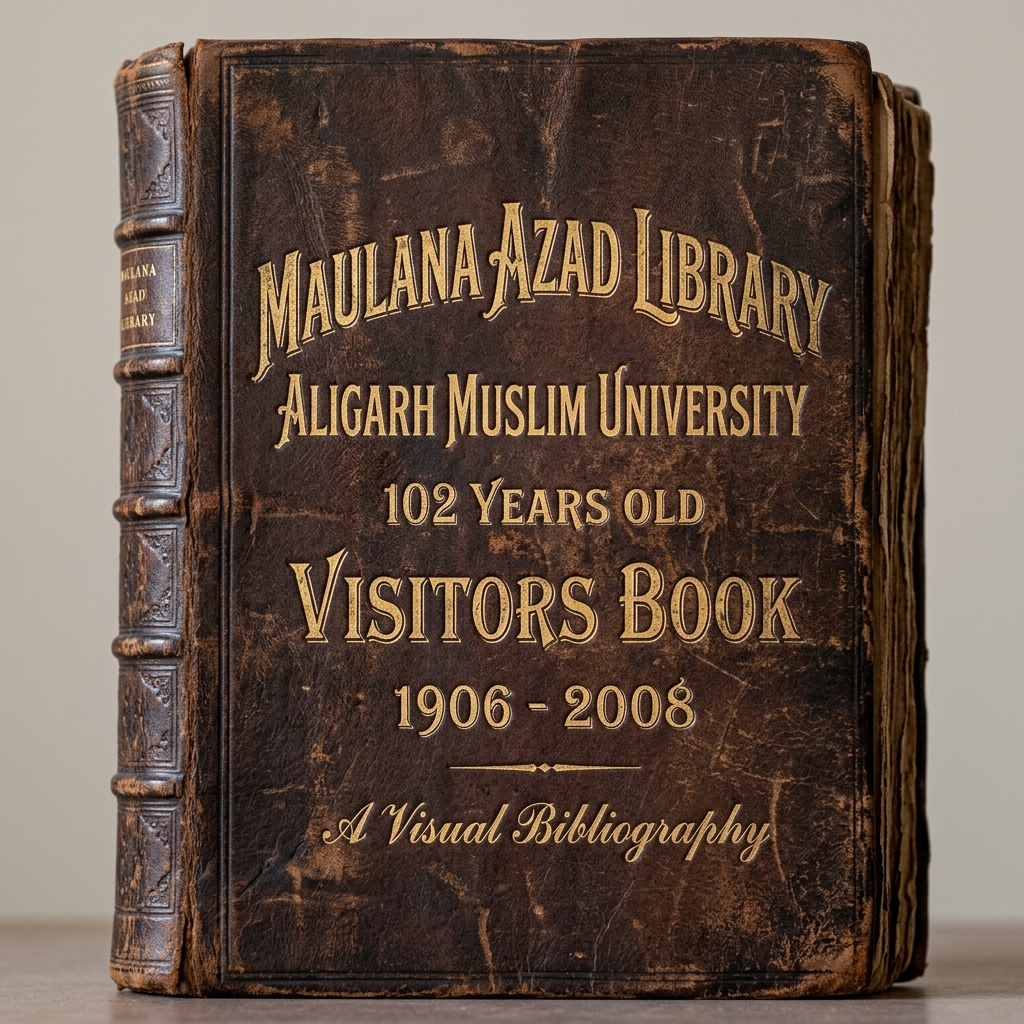
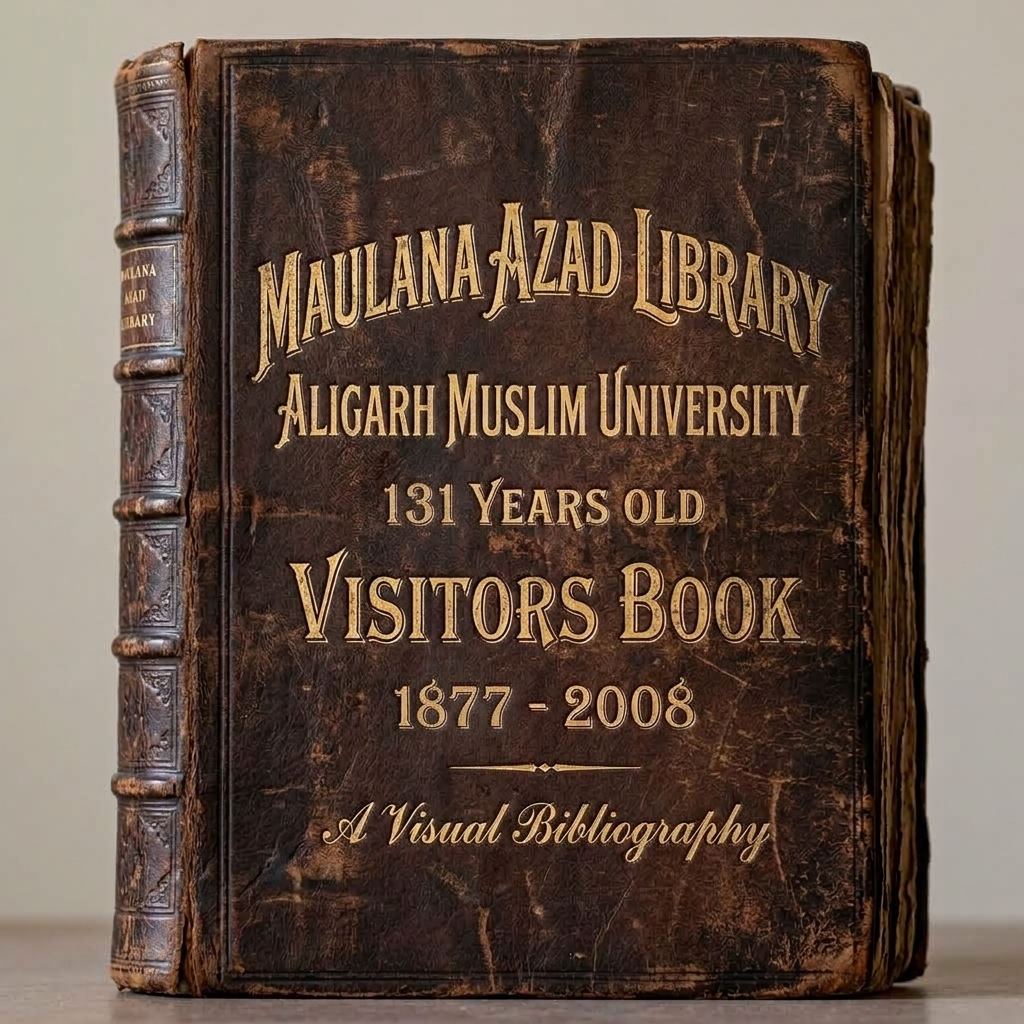
feat: add VisitorBookArchive component and cover asset for interactive visitor records display

diff --git a/apps/website/src/App.tsx b/apps/website/src/App.tsx
@@ -89,13 +89,13 @@ export const App: React.FC = () => {
         {/* Hero Banner Area */}
         <HeroBanner />
         {/* Visitor Marquee */}
-        <div style={{ width: '100%', margin: '16px 0', borderTop: '1px solid var(--border-light)', borderBottom: '1px solid var(--border-light)' }}>
-          <VisitorMarquee />
-        </div>
+
         {/* Featured History Section Card */}
         <HeroFeatureCard />
 
-
+        <div style={{ width: '100%', margin: '16px 0', borderTop: '1px solid var(--border-light)', borderBottom: '1px solid var(--border-light)' }}>
+          <VisitorMarquee />
+        </div>
 
         <div className="three-col-layout" style={{ width: '100%', marginTop: '32px' }}>
 

diff --git a/apps/website/src/components/VisitorBookArchive.tsx b/apps/website/src/components/VisitorBookArchive.tsx
@@ -24,7 +24,7 @@ const PageCover = React.forwardRef<HTMLDivElement, { children?: React.ReactNode;
       >
         <img
           src={visitorBookCoverImg}
-          alt="102 Years Old Visitors Book - Maulana Azad Library Aligarh Muslim University 1906-2008"
+          alt="131 Years Old Visitors Book - Maulana Azad Library Aligarh Muslim University 1877-2008"
           loading="lazy"
           style={{
             width: '100%',
